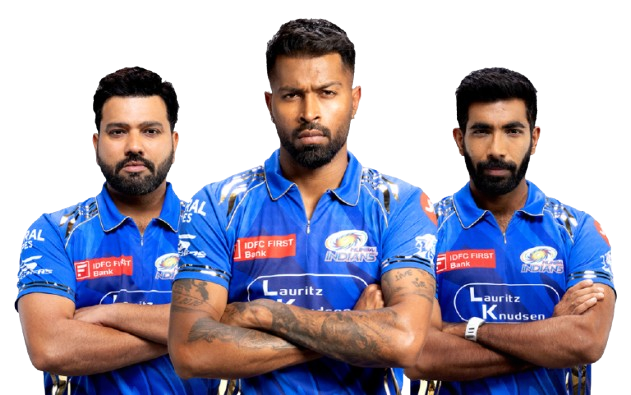
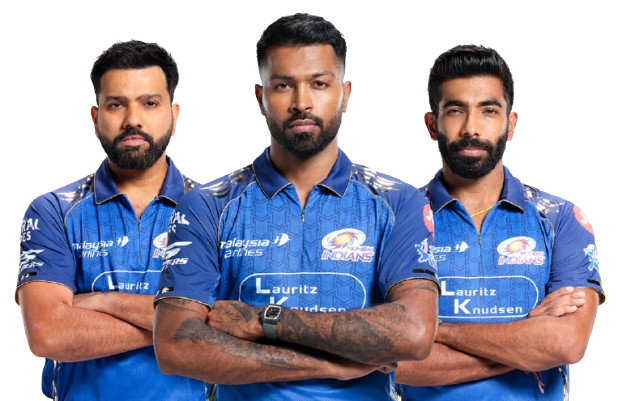
Updated

diff --git a/IPL/static/js/livesquad.js b/IPL/static/js/livesquad.js
@@ -365,7 +365,7 @@ window.addEventListener('statsReady', () => {
       const secondsSpan = clockElement.querySelector(".seconds");
       if (!daysSpan || !hoursSpan || !minutesSpan || !secondsSpan) return; // or handle gracefully
 
-      const interval = setInterval(function () {
+      function updateTimer() {
         const Tnow = new Date();
         const timeZone = 'Asia/Kolkata';
         const dateInTimeZone = new Date(Tnow.toLocaleString('en-US', { timeZone }));
@@ -373,7 +373,6 @@ window.addEventListener('statsReady', () => {
         const t = deadline - now;
 
         if (t < 0) {
-          clearInterval(interval);
           daysSpan.textContent = "0";
           hoursSpan.textContent = "0";
           minutesSpan.textContent = "0";
@@ -390,7 +389,10 @@ window.addEventListener('statsReady', () => {
         hoursSpan.textContent = hours;
         minutesSpan.textContent = minutes;
         secondsSpan.textContent = seconds;
-      }, 1000);
+        }
+
+        updateTimer(); // Show timer instantly
+      const interval = setInterval(updateTimer, 1000);
     }
 
     // Initialize timers for all clock elements

diff --git a/IPL/static/js/live.js b/IPL/static/js/live.js
@@ -612,7 +612,7 @@ window.addEventListener('statsReady', () => {
       const secondsSpan = clockElement.querySelector(".seconds");
         if (!daysSpan || !hoursSpan || !minutesSpan || !secondsSpan) return; // or handle gracefully
 
-      const interval = setInterval(function () {
+      function updateTimer() {
         const Tnow = new Date();
         const timeZone = 'Asia/Kolkata';
         const dateInTimeZone = new Date(Tnow.toLocaleString('en-US', { timeZone }));
@@ -620,7 +620,6 @@ window.addEventListener('statsReady', () => {
         const t = deadline - now;
 
         if (t < 0) {
-          clearInterval(interval);
           daysSpan.textContent = "0";
           hoursSpan.textContent = "0";
           minutesSpan.textContent = "0";
@@ -637,7 +636,10 @@ window.addEventListener('statsReady', () => {
         hoursSpan.textContent = hours;
         minutesSpan.textContent = minutes;
         secondsSpan.textContent = seconds;
-      }, 1000);
+      }
+
+      updateTimer(); // Show timer instantly
+      const interval = setInterval(updateTimer, 1000);
     }
 
     // Initialize timers for all clock elements

diff --git a/IPL/static/js/scorecard.js b/IPL/static/js/scorecard.js
@@ -505,7 +505,7 @@ window.addEventListener('statsReady', () => {
       const secondsSpan = clockElement.querySelector(".seconds");
         if (!daysSpan || !hoursSpan || !minutesSpan || !secondsSpan) return; // or handle gracefully
 
-      const interval = setInterval(function () {
+      function updateTimer() {
         const Tnow = new Date();
         const timeZone = 'Asia/Kolkata';
         const dateInTimeZone = new Date(Tnow.toLocaleString('en-US', { timeZone }));
@@ -513,7 +513,6 @@ window.addEventListener('statsReady', () => {
         const t = deadline - now;
 
         if (t < 0) {
-          clearInterval(interval);
           daysSpan.textContent = "0";
           hoursSpan.textContent = "0";
           minutesSpan.textContent = "0";
@@ -530,7 +529,10 @@ window.addEventListener('statsReady', () => {
         hoursSpan.textContent = hours;
         minutesSpan.textContent = minutes;
         secondsSpan.textContent = seconds;
-      }, 1000);
+      }
+
+      updateTimer(); // Show timer instantly
+      const interval = setInterval(updateTimer, 1000);
     }
 
     // Initialize timers for all clock elements

diff --git a/IPL/static/js/info.js b/IPL/static/js/info.js
@@ -221,7 +221,7 @@ window.addEventListener('statsReady', () => {
       const secondsSpan = clockElement.querySelector(".seconds");
       if (!daysSpan || !hoursSpan || !minutesSpan || !secondsSpan) return; // or handle gracefully
 
-      const interval = setInterval(function () {
+      function updateTimer() {
         const Tnow = new Date();
         const timeZone = 'Asia/Kolkata';
         const dateInTimeZone = new Date(Tnow.toLocaleString('en-US', { timeZone }));
@@ -229,7 +229,6 @@ window.addEventListener('statsReady', () => {
         const t = deadline - now;
 
         if (t < 0) {
-          clearInterval(interval);
           daysSpan.textContent = "0";
           hoursSpan.textContent = "0";
           minutesSpan.textContent = "0";
@@ -246,7 +245,10 @@ window.addEventListener('statsReady', () => {
         hoursSpan.textContent = hours;
         minutesSpan.textContent = minutes;
         secondsSpan.textContent = seconds;
-      }, 1000);
+      }
+
+      updateTimer(); // Show timer instantly
+      const interval = setInterval(updateTimer, 1000);
     }
 
     // Initialize timers for all clock elements

diff --git a/IPL/static/js/overs.js b/IPL/static/js/overs.js
@@ -353,7 +353,7 @@ window.addEventListener('statsReady', () => {
       const secondsSpan = clockElement.querySelector(".seconds");
       if (!daysSpan || !hoursSpan || !minutesSpan || !secondsSpan) return; // or handle gracefully
 
-      const interval = setInterval(function () {
+      function updateTimer() {
         const Tnow = new Date();
         const timeZone = 'Asia/Kolkata';
         const dateInTimeZone = new Date(Tnow.toLocaleString('en-US', { timeZone }));
@@ -361,7 +361,6 @@ window.addEventListener('statsReady', () => {
         const t = deadline - now;
 
         if (t < 0) {
-          clearInterval(interval);
           daysSpan.textContent = "0";
           hoursSpan.textContent = "0";
           minutesSpan.textContent = "0";
@@ -378,7 +377,10 @@ window.addEventListener('statsReady', () => {
         hoursSpan.textContent = hours;
         minutesSpan.textContent = minutes;
         secondsSpan.textContent = seconds;
-      }, 1000);
+      }
+
+      updateTimer(); // Show timer instantly
+      const interval = setInterval(updateTimer, 1000);
     }
 
     // Initialize timers for all clock elements

diff --git a/IPL/templates/displayFR.html b/IPL/templates/displayFR.html
@@ -361,7 +361,7 @@ body {
       const minutesSpan = clockElement.querySelector(".minutes");
       const secondsSpan = clockElement.querySelector(".seconds");
 
-      const interval = setInterval(function () {
+      function updateTimer() {
         const Tnow = new Date();
         const timeZone = 'Asia/Kolkata';
         const dateInTimeZone = new Date(Tnow.toLocaleString('en-US', { timeZone }));
@@ -369,7 +369,6 @@ body {
         const t = deadline - now;
 
         if (t < 0) {
-          clearInterval(interval);
           daysSpan.textContent = "0";
           hoursSpan.textContent = "0";
           minutesSpan.textContent = "0";
@@ -386,7 +385,10 @@ body {
         hoursSpan.textContent = hours;
         minutesSpan.textContent = minutes;
         secondsSpan.textContent = seconds;
-      }, 1000);
+      }
+
+      updateTimer(); // Show timer instantly
+      const interval = setInterval(updateTimer, 1000);
     }
 
     // Initialize timers for all clock elements

diff --git a/IPL/static/fixtures.css b/IPL/static/fixtures.css
@@ -412,9 +412,9 @@ h1 {
           z-index: 1;
           margin-right: 20px;
           transition: transform 0.3s ease;
-          background: url('/static/images/white-full-circle.svg'), linear-gradient(145deg, var(--c1) 10%, var(--c2) 70%);
-          background-size: 100%, cover;
-          background-position: center, center;
+          background: linear-gradient(145deg, var(--c1) 10%, var(--c2) 70%);
+          background-size: cover;
+          background-position: center;
         }
         .potm-image img {
           width: 100%;

diff --git a/IPL/static/css/base.css b/IPL/static/css/base.css
@@ -54,10 +54,8 @@
     border-radius: 0;
     padding-left: 10px;
     padding-right: 0;
+    background: linear-gradient(145deg, #0056d2, #003c8a);
   }
-}
-.navbar-collapse {
-  background: linear-gradient(145deg, #0056d2, #003c8a);
 }
       nav a.navbar-brand {
         font-family: 'Exo 2', sans-serif;
